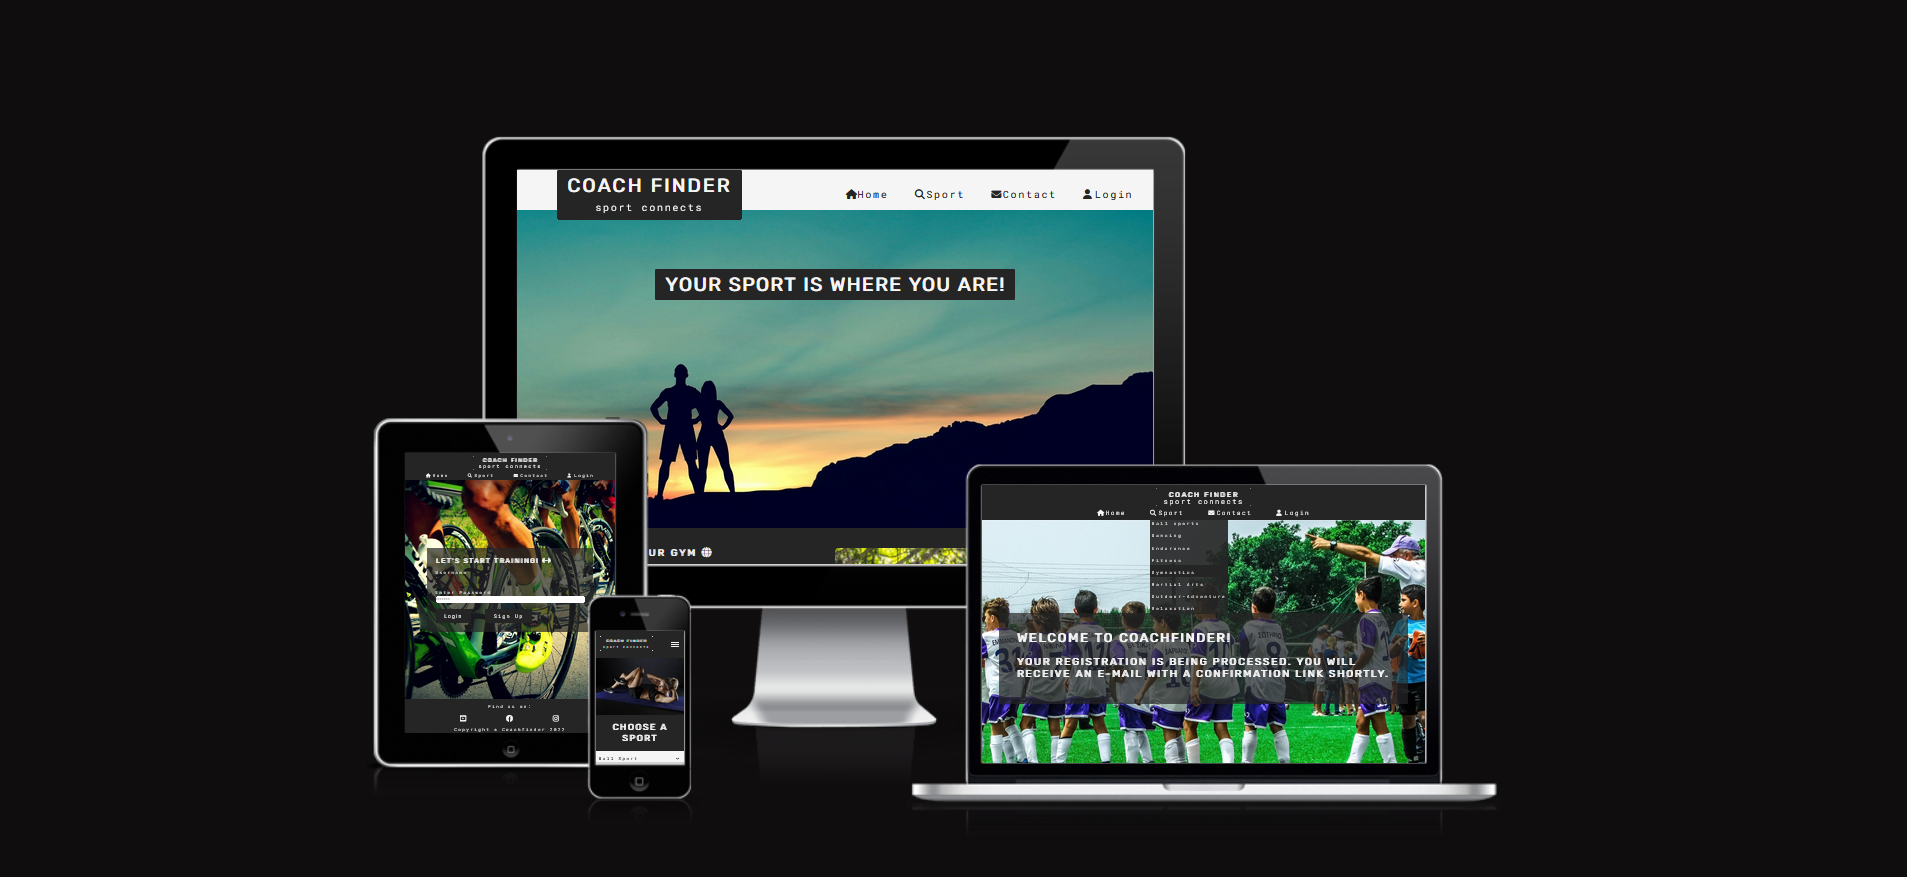
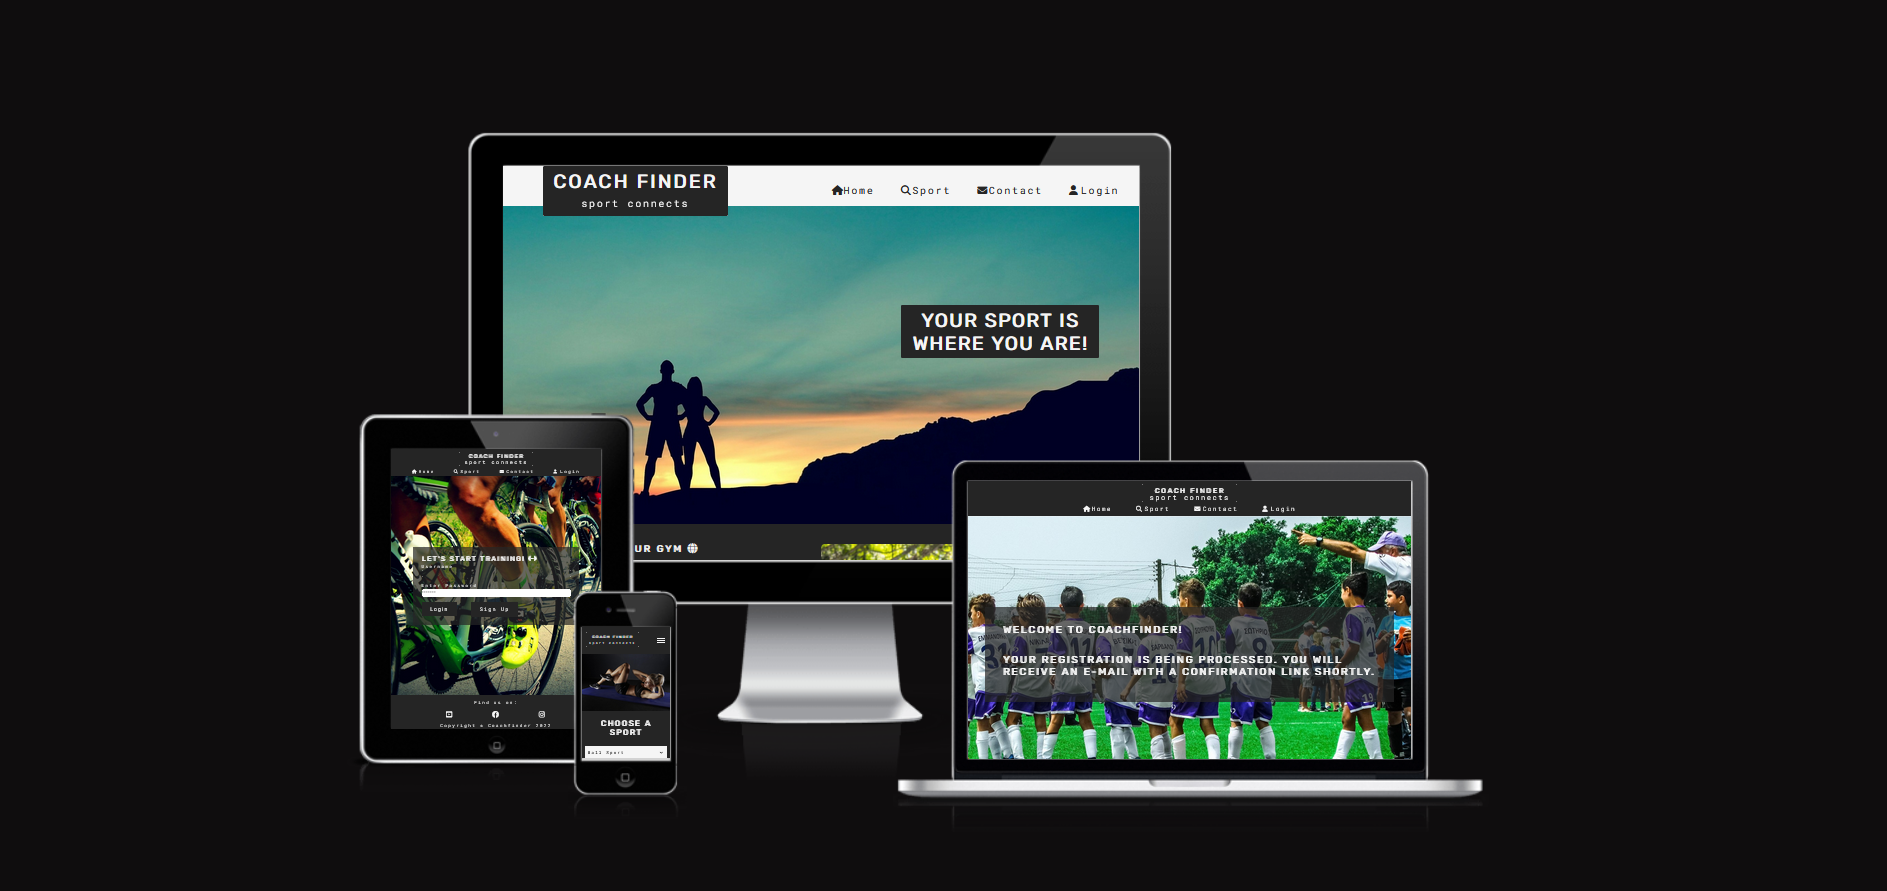
removed old coments

Changed region(s): [[0.1844, 0.1231, 0.7992, 0.9236]]

diff --git a/assets/css/style.css b/assets/css/style.css
@@ -311,7 +311,6 @@ hr {
 
 .image-container img {
     height: 500px;
-    /* width: 800px; */
     width: auto;
 
 }
@@ -1067,7 +1066,6 @@ a {
         margin-top: 50px;
         margin-bottom: 50px;
         float: unset;
-
     }
 
     .signup-form {
@@ -1188,7 +1186,6 @@ a {
         color: aqua;
     }
 
-
     .dropbtn {
         display: block;
         width: 750px;
@@ -1235,16 +1232,12 @@ a {
     }
 
     .image-container img {
-        /* height: 250px; */
         width: 100%;
-        /* width: auto; */
         height: auto;
     }
 
     .slide-show {
-        /* width: 90%; */
         width: 50%;
-        /* height: 250px; */
         padding-bottom: unset;
         height: 200px;
     }
@@ -1332,8 +1325,8 @@ a {
         border-bottom: 1px solid #444;
     }
 }
-
 /**************burger end***************/
+
 /********************************MQ 600px************************************************/
 @media screen and (max-width: 600px) {
     .slide-show {
@@ -1355,7 +1348,6 @@ a {
 
     .image-container img {
         height: 150px;
-        /* width: 100%; */
         width: auto;
     }
 
@@ -1460,13 +1452,11 @@ a {
     }
 
     .slide-show {
-        /* width: 90%; */
         width: 80%;
     }
 
     .image-container img {
         height: 150px;
-        /* width: 100%; */
         width: auto;
     }
 
